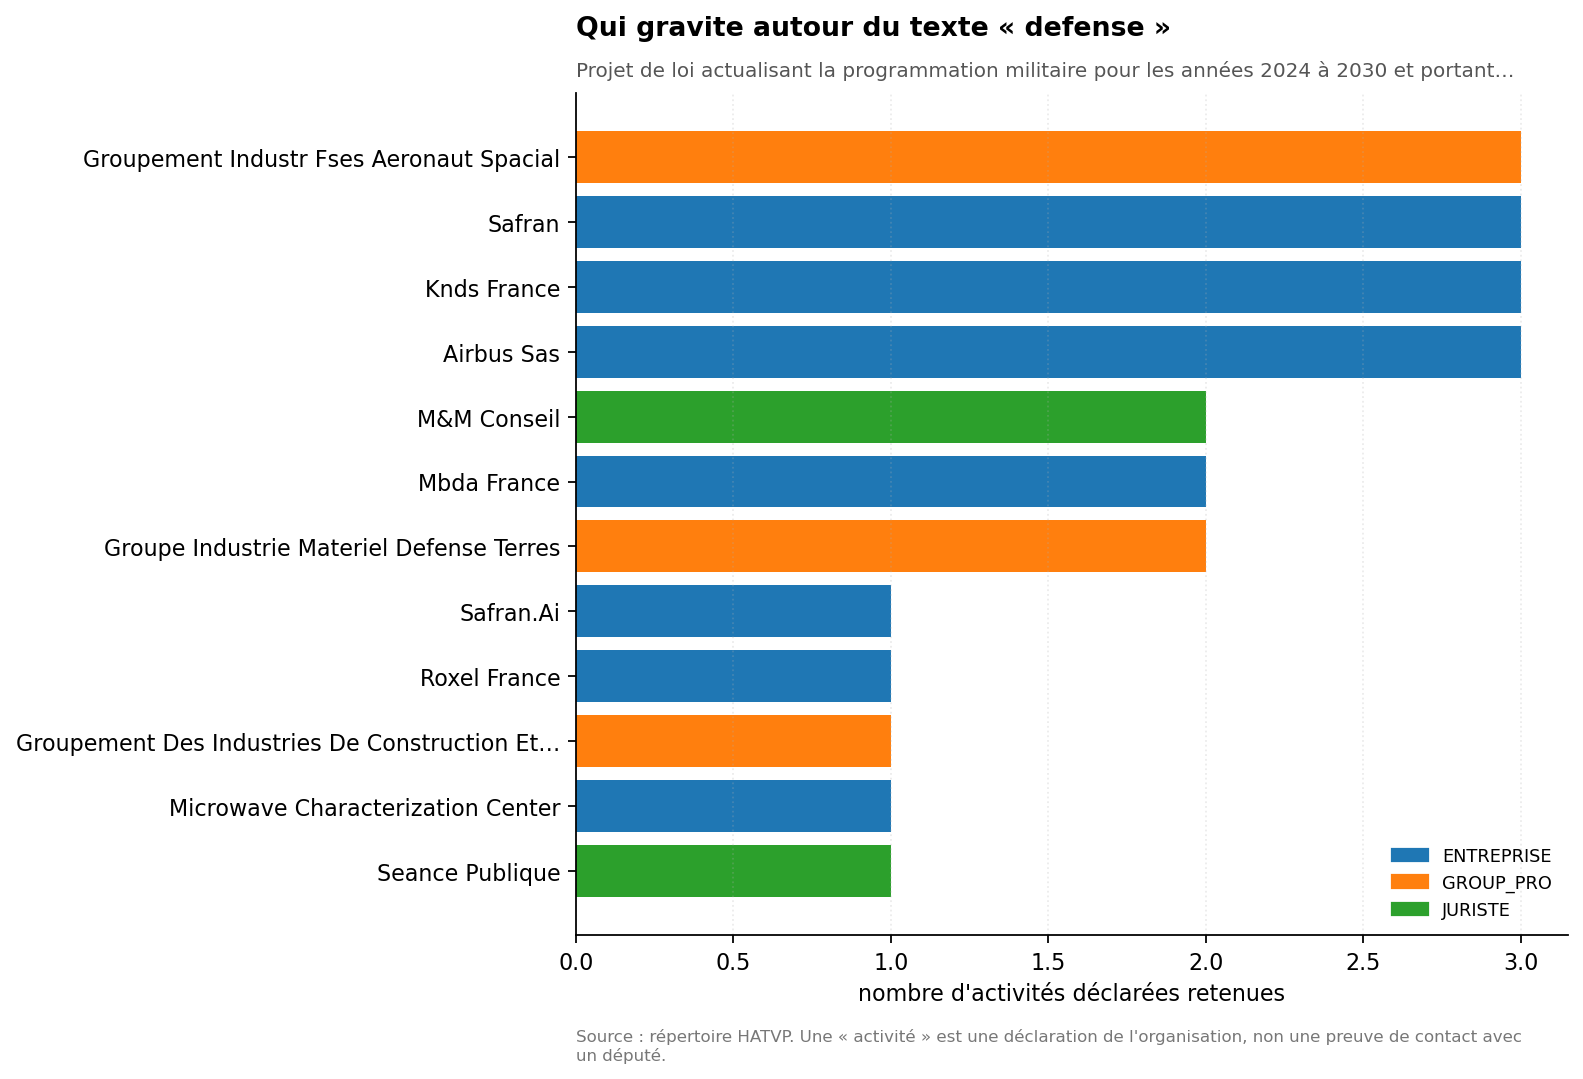
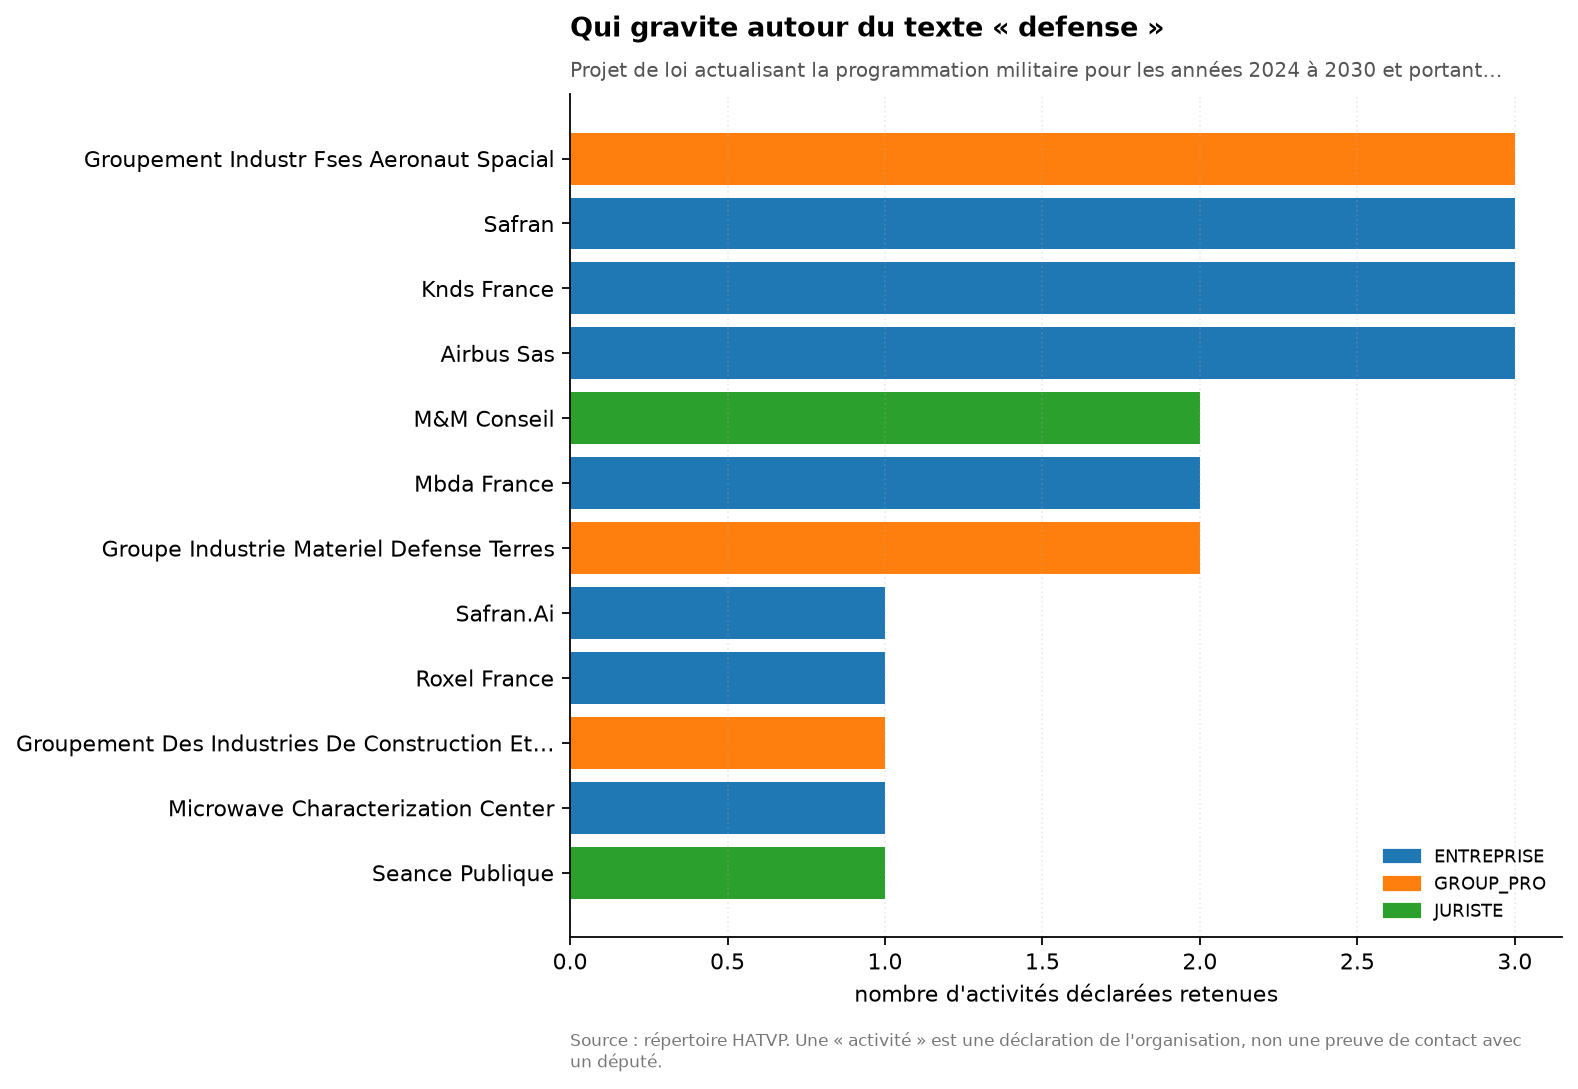
Figures : titres-conclusions alignés sur les chiffres
Figure 02 : nommer le texte divise le volume par 31 en agriculture mais le
multiplie par 10 sur les fraudes (165 contre 16) ; l'ancien titre généralisait
le cas agricole. Figure 04 : la défense divise le bloc de gauche (37 votes sur
562 hors règle de bloc). Figure 10 : le témoin n'est pas nul, la proximité est
plus forte avec les lobbies du texte. Le titre ne chevauche plus un sous-titre
sur deux lignes.

Changed region(s): [[0.0, 0.0918, 0.9937, 1.0], [0.3416, 0.0, 0.9626, 0.0918], [0.9316, 0.3364, 0.9626, 0.367]]

diff --git a/src/lobbynomics/viz.py b/src/lobbynomics/viz.py
@@ -91,9 +91,12 @@ def _etiquettes_blocs(blocs) -> list[str]:
 
 def _habiller(ax, titre: str, sous_titre: str = "", source: str = ""):
     """Titre (= la conclusion de la figure), sous-titre (= ce qui est mesuré), source."""
-    ax.set_title(titre, loc="left", pad=26 if sous_titre else 10)
+    sous_titre = textwrap.fill(sous_titre, 100)
+    # Un sous-titre replié sur deux lignes repousse le titre d'autant, sinon ils se chevauchent.
+    lignes = sous_titre.count("\n") + 1 if sous_titre else 0
+    ax.set_title(titre, loc="left", pad=13 + 13 * lignes if sous_titre else 10)
     if sous_titre:
-        ax.text(0, 1.015, textwrap.fill(sous_titre, 100), transform=ax.transAxes,
+        ax.text(0, 1.015, sous_titre, transform=ax.transAxes,
                 fontsize=9, color="#555555", va="bottom")
     if source:
         ax.annotate(textwrap.fill(source, 115), xy=(0, 0), xycoords="axes fraction",
@@ -138,8 +141,10 @@ def figure_intensite_lobbying(ciblage: pd.DataFrame) -> plt.Figure:
     """Ce que chaque niveau de ciblage retient, texte par texte.
 
     Deux barres par texte, en échelle log : le niveau 1 (le texte est nommé dans
-    l'objet déclaré) est deux ordres de grandeur plus petit que le niveau 2
-    (simple voisinage thématique). L'écart est le message de la figure.
+    l'objet déclaré) et le niveau 2 (simple voisinage thématique) ne retiennent
+    pas les mêmes volumes, et l'écart change de sens d'un texte à l'autre
+    (agriculture : 29 contre 904 ; fraudes : 165 contre 16). C'est le message
+    de la figure.
     """
     agr = (ciblage.groupby("texte_cle")
            .agg(niveau1=("cible_nommee", "sum"), niveau2=("cible_thematique", "sum"))
@@ -158,7 +163,7 @@ def figure_intensite_lobbying(ciblage: pd.DataFrame) -> plt.Figure:
     ax.set_ylabel("activités déclarées retenues (échelle log)")
     ax.set_xticks(x, agr.index)
     ax.legend()
-    _habiller(ax, "Exiger que le texte soit nommé divise le volume retenu par vingt à cinquante",
+    _habiller(ax, "Texte nommé contre thème : 31 fois moins en agriculture, 10 fois plus sur les fraudes",
               "activités du répertoire HATVP retenues par chacun des deux niveaux de ciblage",
               "Sources : répertoire HATVP des représentants d'intérêts × dossiers législatifs AN. "
               "Le texte « logement » n'est nommé par aucune activité : il sert de cas témoin.")
@@ -241,7 +246,7 @@ def figure_votes_par_bloc(table: pd.DataFrame) -> plt.Figure:
     ax.set_ylabel("% de votes « pour »")
     ax.set_ylim(0, 105)
     ax.legend(title="texte")
-    _habiller(ax, "Le vote final se lit entièrement dans l'appartenance de bloc",
+    _habiller(ax, "Le vote final se lit dans l'appartenance de bloc, sauf à gauche sur la défense",
               "part de votes favorables à l'ensemble du texte (votes exprimés)",
               "Source : scrutins publics, Assemblée nationale, XVIIe législature.")
     return fig
@@ -474,7 +479,7 @@ def figure_placebo(amendements: pd.DataFrame) -> plt.Figure:
                     ha="right", fontsize=8.5, color="#444444")
     axes[0].set_ylabel("nombre d'amendements")
     axes[0].legend(fontsize=8.5, loc="center right")
-    fig.suptitle("La proximité mesurée est bien sectorielle, pas stylistique",
+    fig.suptitle("La proximité mesurée n'est pas que stylistique : elle est plus forte avec les lobbies du texte",
                  x=0.005, ha="left", fontweight="bold", fontsize=12)
     fig.text(0.005, -0.02,
              "Lecture : pour chaque amendement, similarité maximale avec les objets déclarés des "
